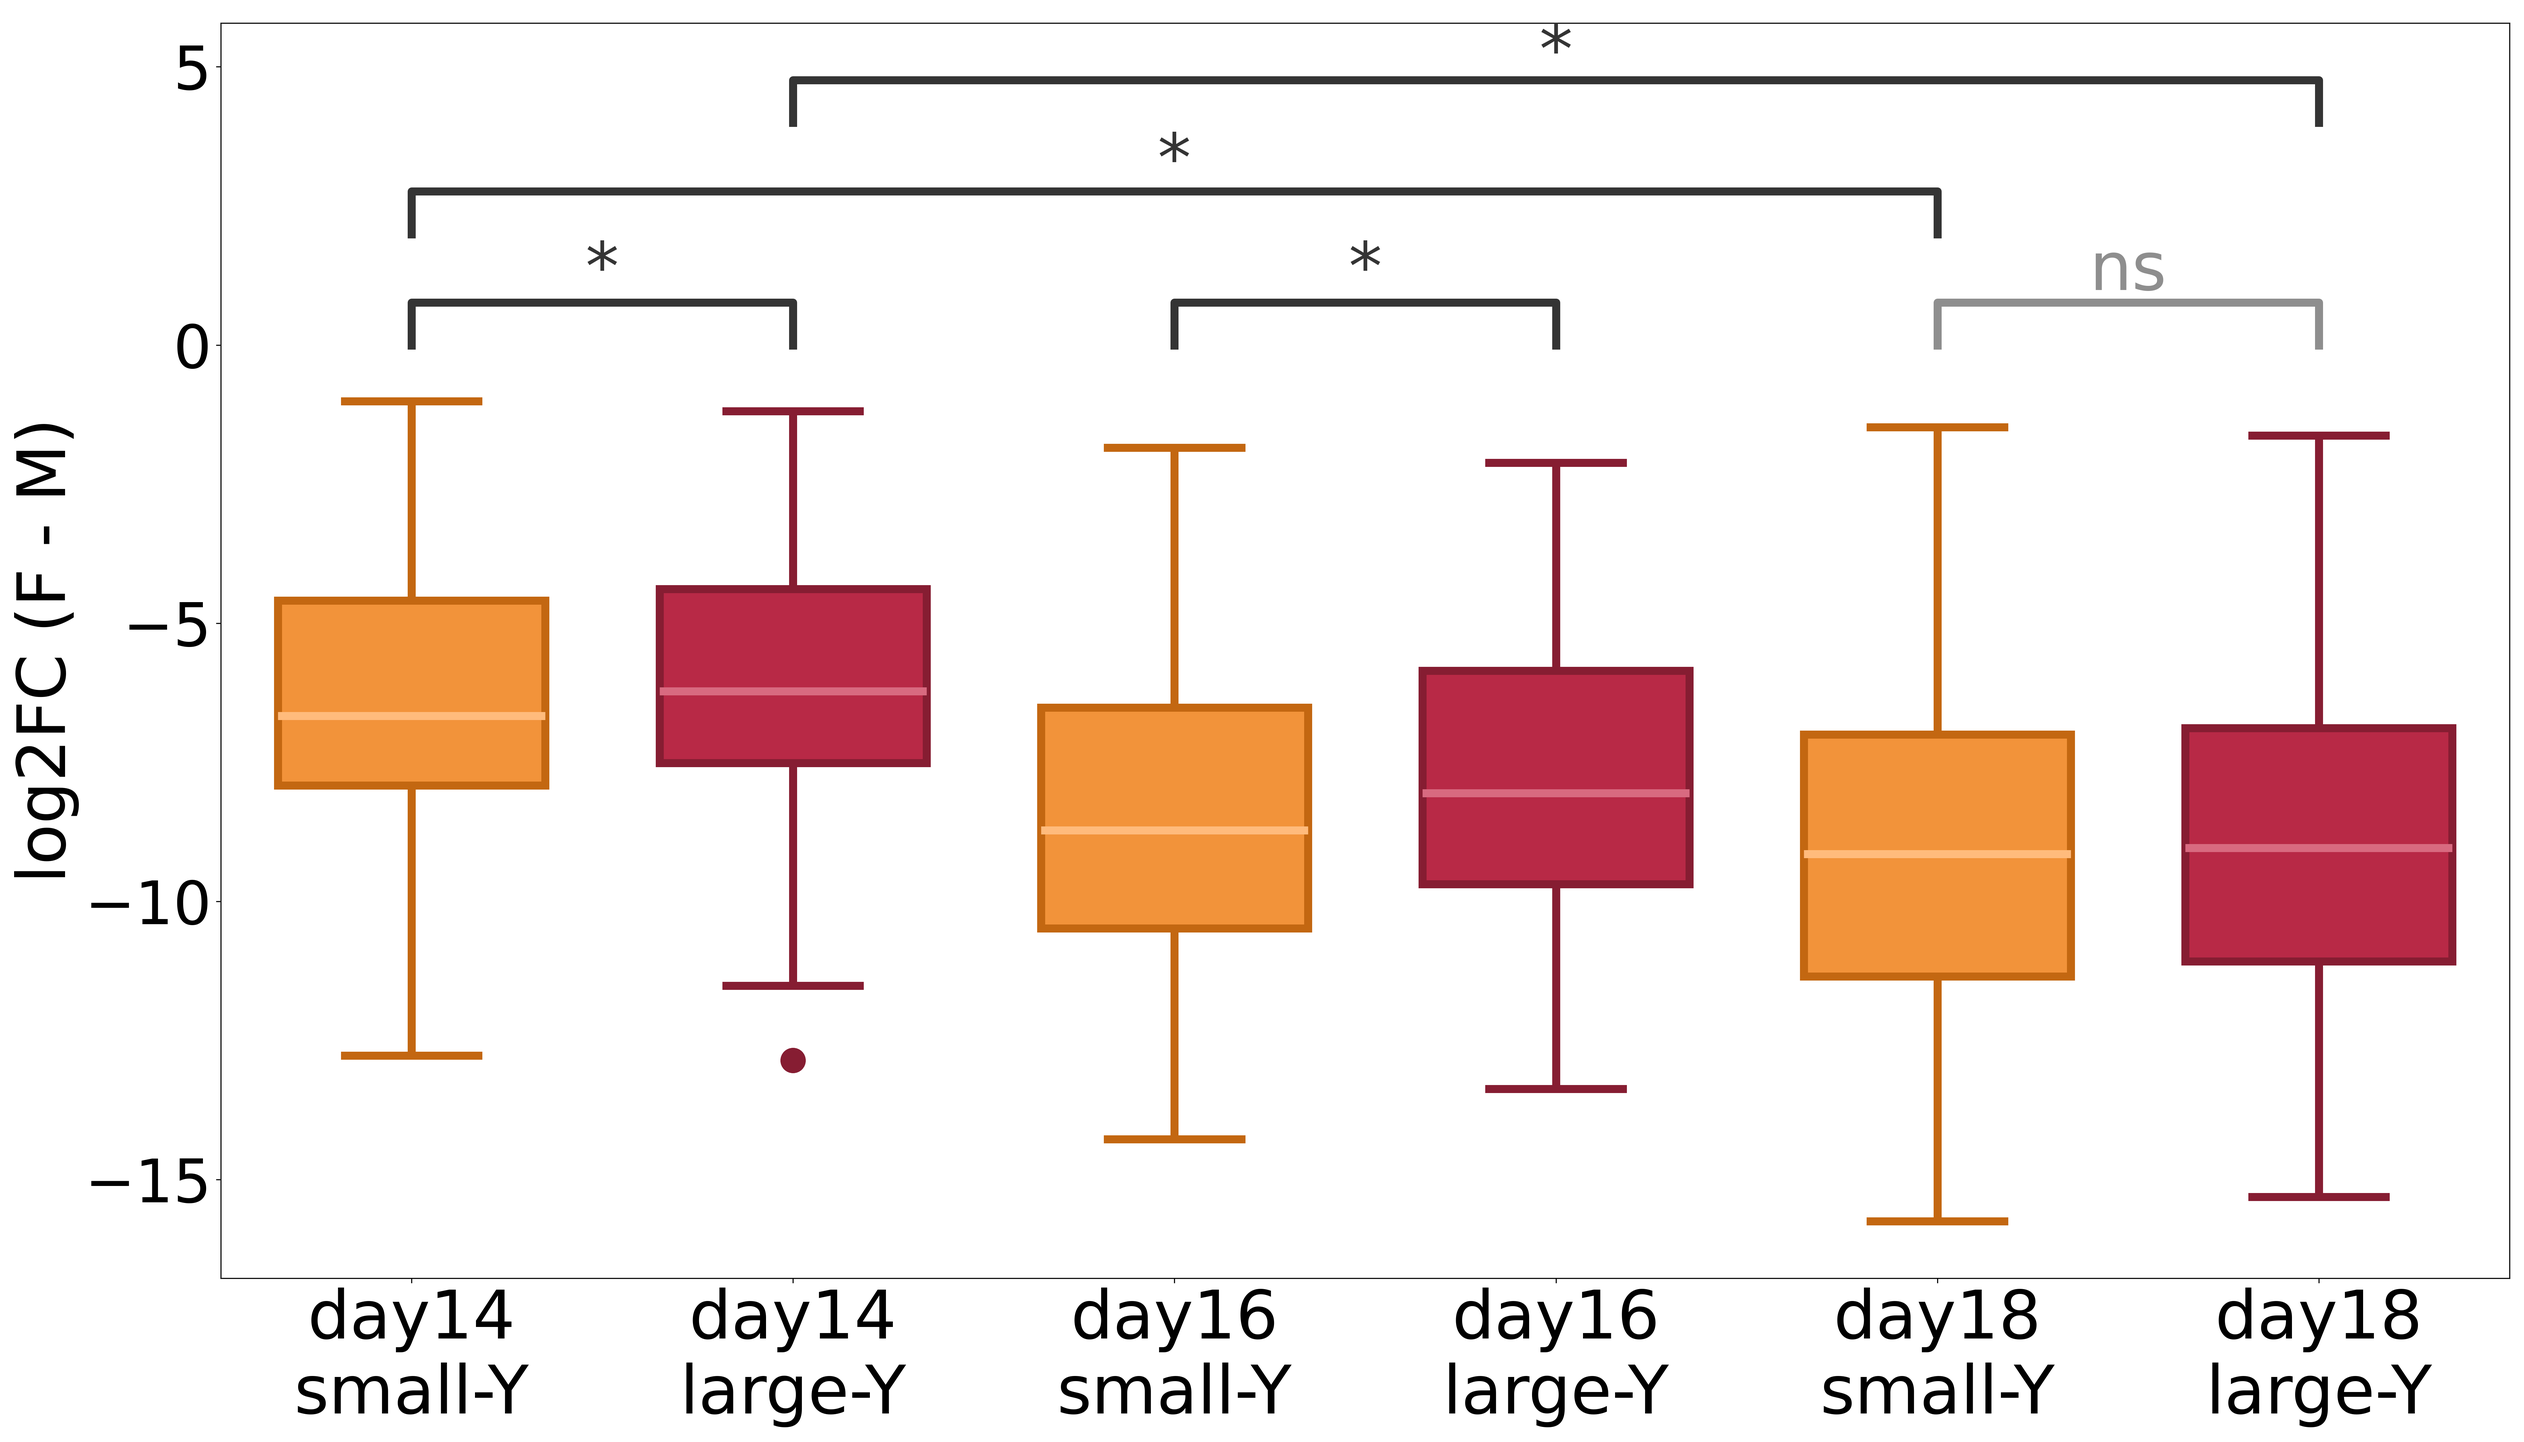
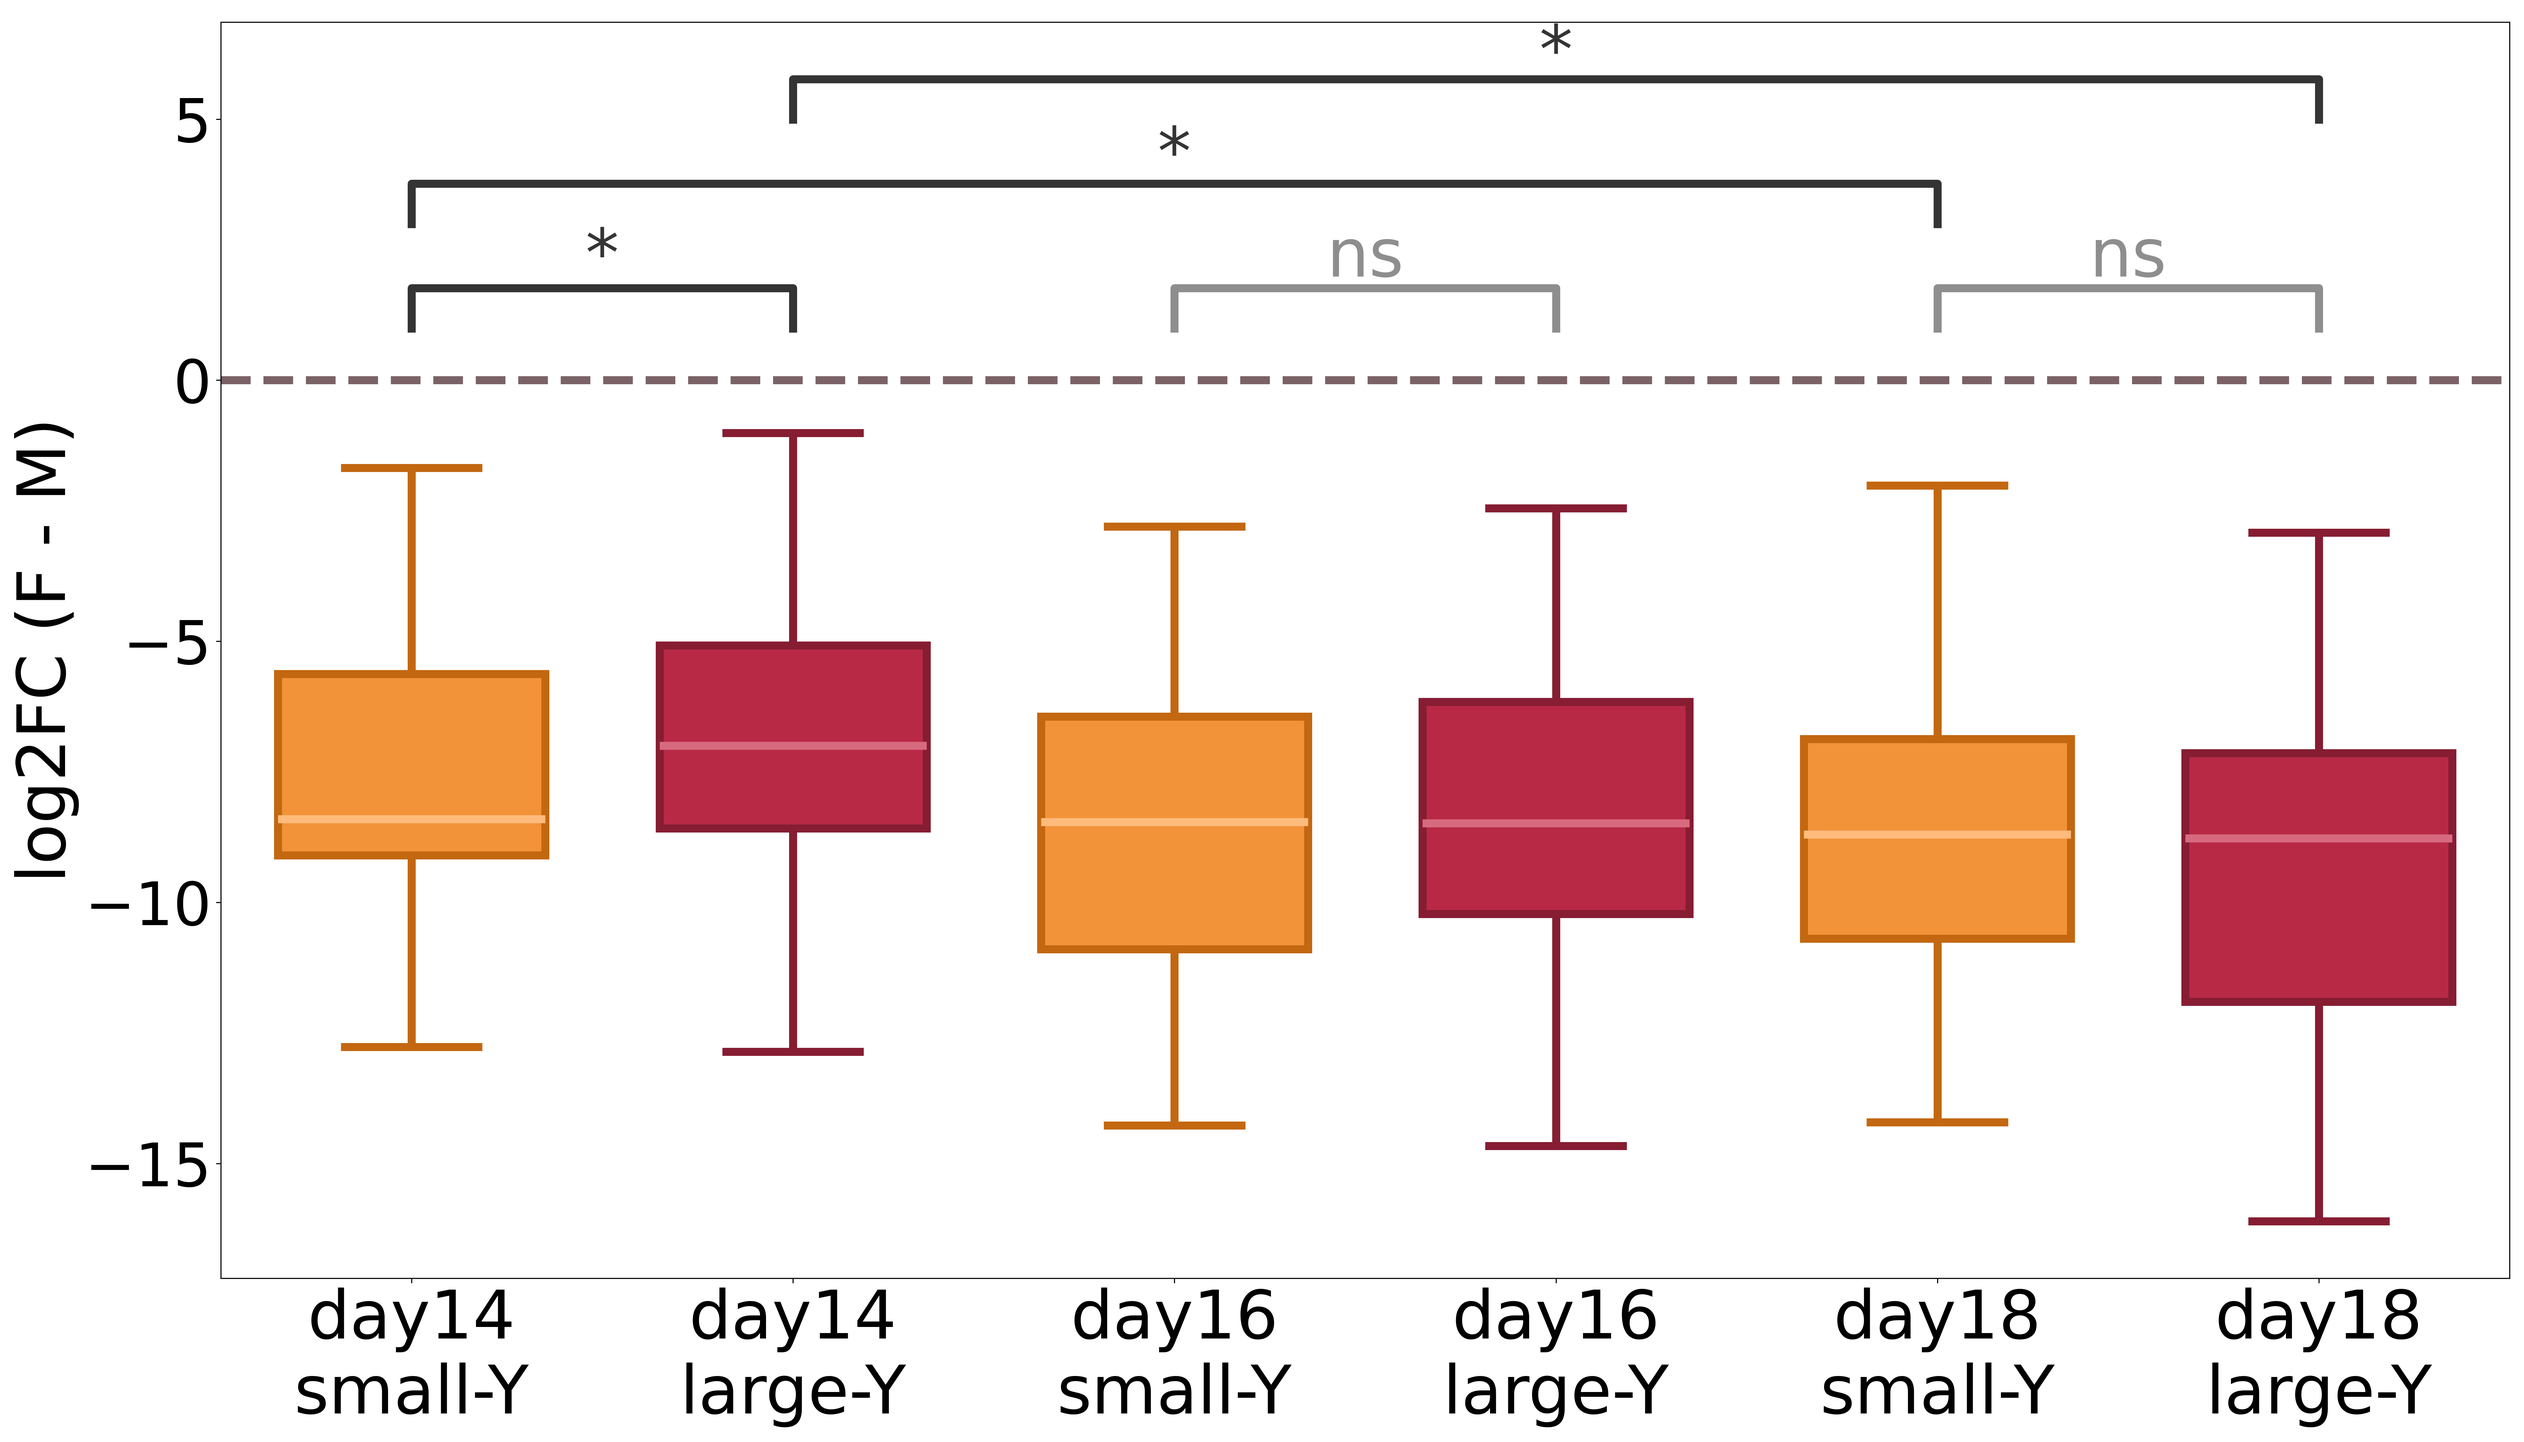
add 0 line

diff --git a/src/plot_DE_stuff.py b/src/plot_DE_stuff.py
@@ -842,15 +842,19 @@ def plot_logFC_boxplots(infiles_dict, p_sig = 0.05, min_LFC = -1, only_all_inter
             else:
                 bar_raise = 0
             ax.plot([x1, x1, x2, x2], [y+bar_raise, tick_top, tick_top, y+bar_raise], lw=lw, color=color)
-                
+
         ymax = max([max(box) for box in tables_list])
 
-        add_significance_bar_log(ax=ax, x1=tick_pos[0], x2=tick_pos[1], data=tables_list, y=ymax+1, lw=lw, fs=fs)
-        add_significance_bar_log(ax=ax, x1=tick_pos[2], x2=tick_pos[3], data=tables_list, y=ymax+1, lw=lw, fs=fs)
-        add_significance_bar_log(ax=ax, x1=tick_pos[4], x2=tick_pos[5], data=tables_list, y=ymax+1, lw=lw, fs=fs)
-        add_significance_bar_log(ax=ax, x1=tick_pos[0], x2=tick_pos[4], data=tables_list, y=ymax+3, lw=lw, fs=fs)
-        add_significance_bar_log(ax=ax, x1=tick_pos[1], x2=tick_pos[5], data=tables_list, y=ymax+5, lw=lw, fs=fs)
-    
+        add_significance_bar_log(ax=ax, x1=tick_pos[0], x2=tick_pos[1], data=tables_list, y=ymax+2, lw=lw, fs=fs)
+        add_significance_bar_log(ax=ax, x1=tick_pos[2], x2=tick_pos[3], data=tables_list, y=ymax+2, lw=lw, fs=fs)
+        add_significance_bar_log(ax=ax, x1=tick_pos[4], x2=tick_pos[5], data=tables_list, y=ymax+2, lw=lw, fs=fs)
+        add_significance_bar_log(ax=ax, x1=tick_pos[0], x2=tick_pos[4], data=tables_list, y=ymax+4
+        , lw=lw, fs=fs)
+        add_significance_bar_log(ax=ax, x1=tick_pos[1], x2=tick_pos[5], data=tables_list, y=ymax+6, lw=lw, fs=fs)
+
+    xmin_,xmax_ = ax.get_xlim()
+    print(f"--------> {xmin_} to {xmax_}")
+    ax.plot([xmin_, xmax_], [0, 0], color = "#7A6266", linestyle="dashed", linewidth=lw)
 
     plt.tight_layout()
     plt.savefig(plot_filename, dpi = 300, transparent = True)
@@ -1789,7 +1793,7 @@ if __name__ == "__main__":
     #############################################
 
     ## plot LogFC boxplots of male-biased genes of several contrasts within each separation
-    if False:
+    if True:
         LFC_comp_sets = {
             "day_separated" : {
                 "day14" : {
